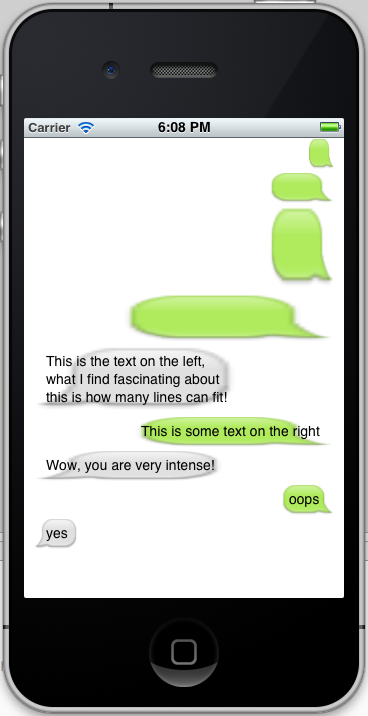
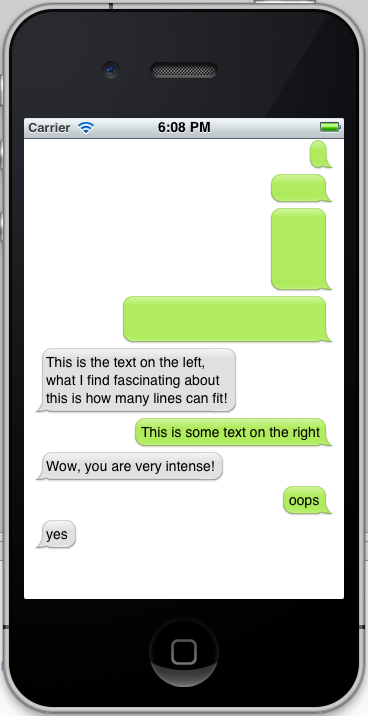
add CreateResizableImage, fixes stretched bubbles

Changed region(s): [[0.0897, 0.1844, 0.8967, 0.676], [0.7772, 0.676, 0.8967, 0.7374], [0.0897, 0.7374, 0.2092, 0.7682]]

diff --git a/BubbleCell/BubbleCell/Bubble.cs b/BubbleCell/BubbleCell/Bubble.cs
@@ -32,8 +32,8 @@ namespace BubbleCell
 			bright = UIImage.FromFile ("green.png");
 			bleft = UIImage.FromFile ("grey.png");
 
-			left = bleft;
-			right = bright;
+			left = bleft.CreateResizableImage (new UIEdgeInsets (10, 16, 18, 26));
+			right = bright.CreateResizableImage (new UIEdgeInsets (11, 11, 17, 18));
 		}
 		
 		public BubbleCell (bool isLeft) : base (UITableViewCellStyle.Default, isLeft ? KeyLeft : KeyRight)
